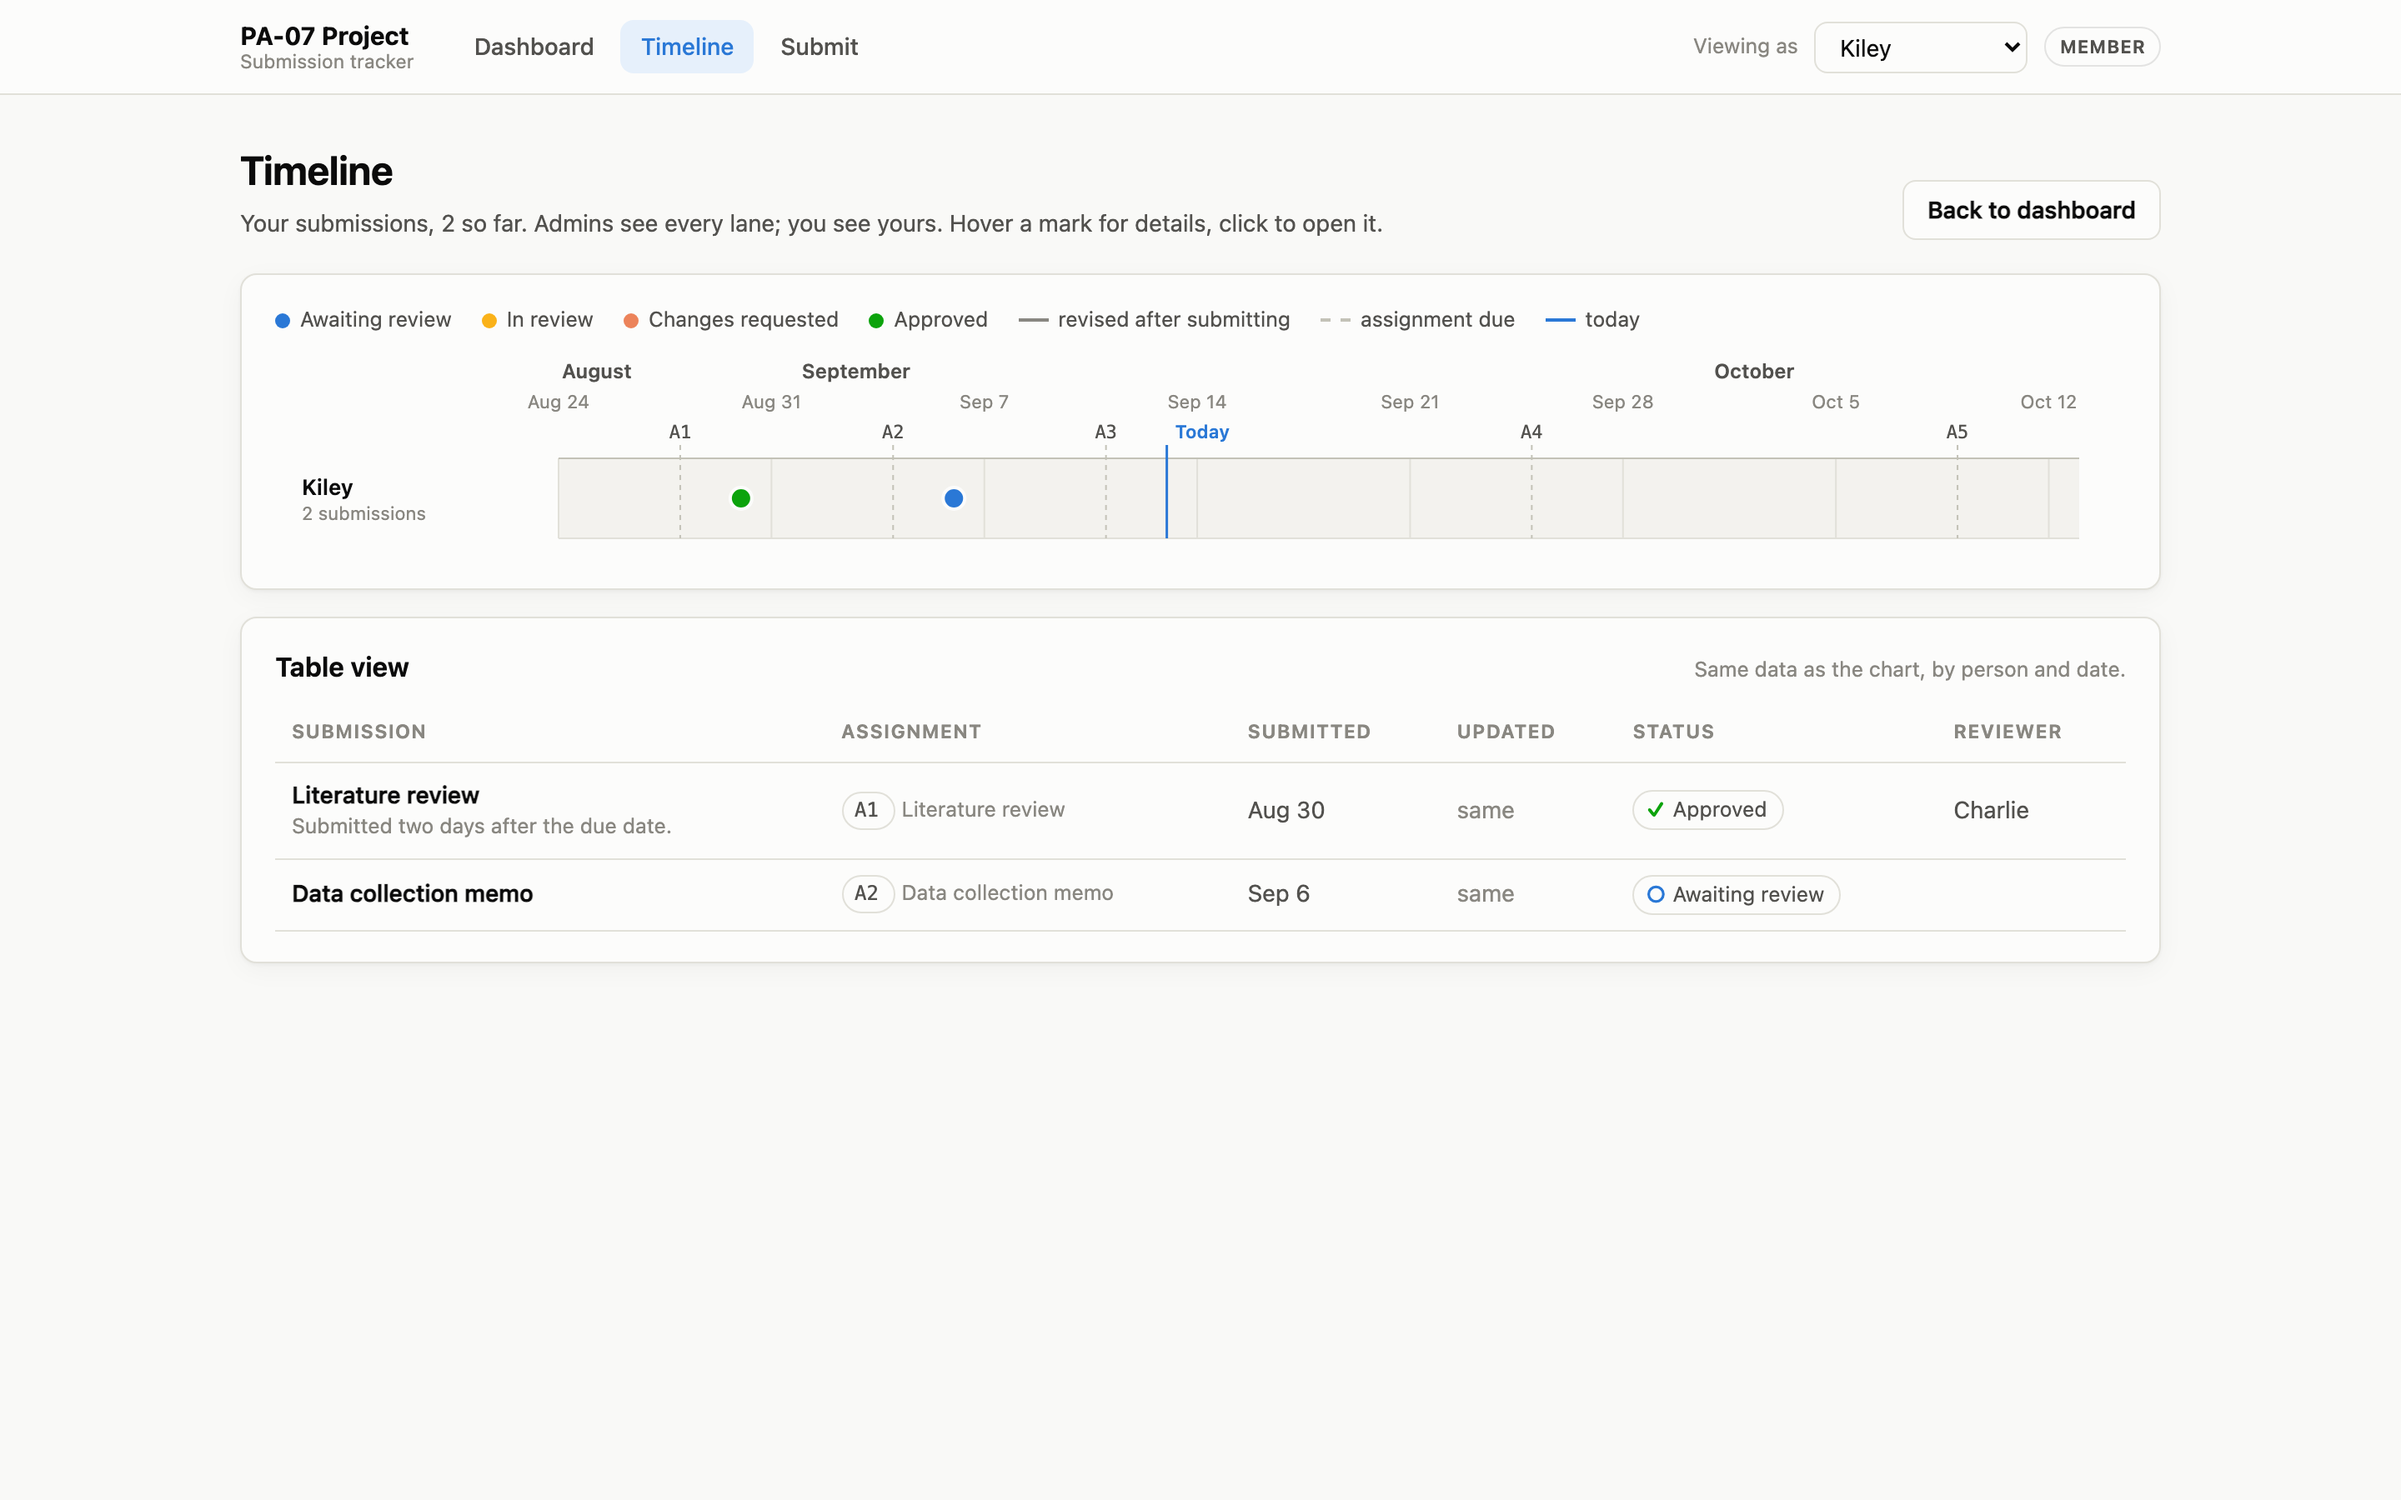
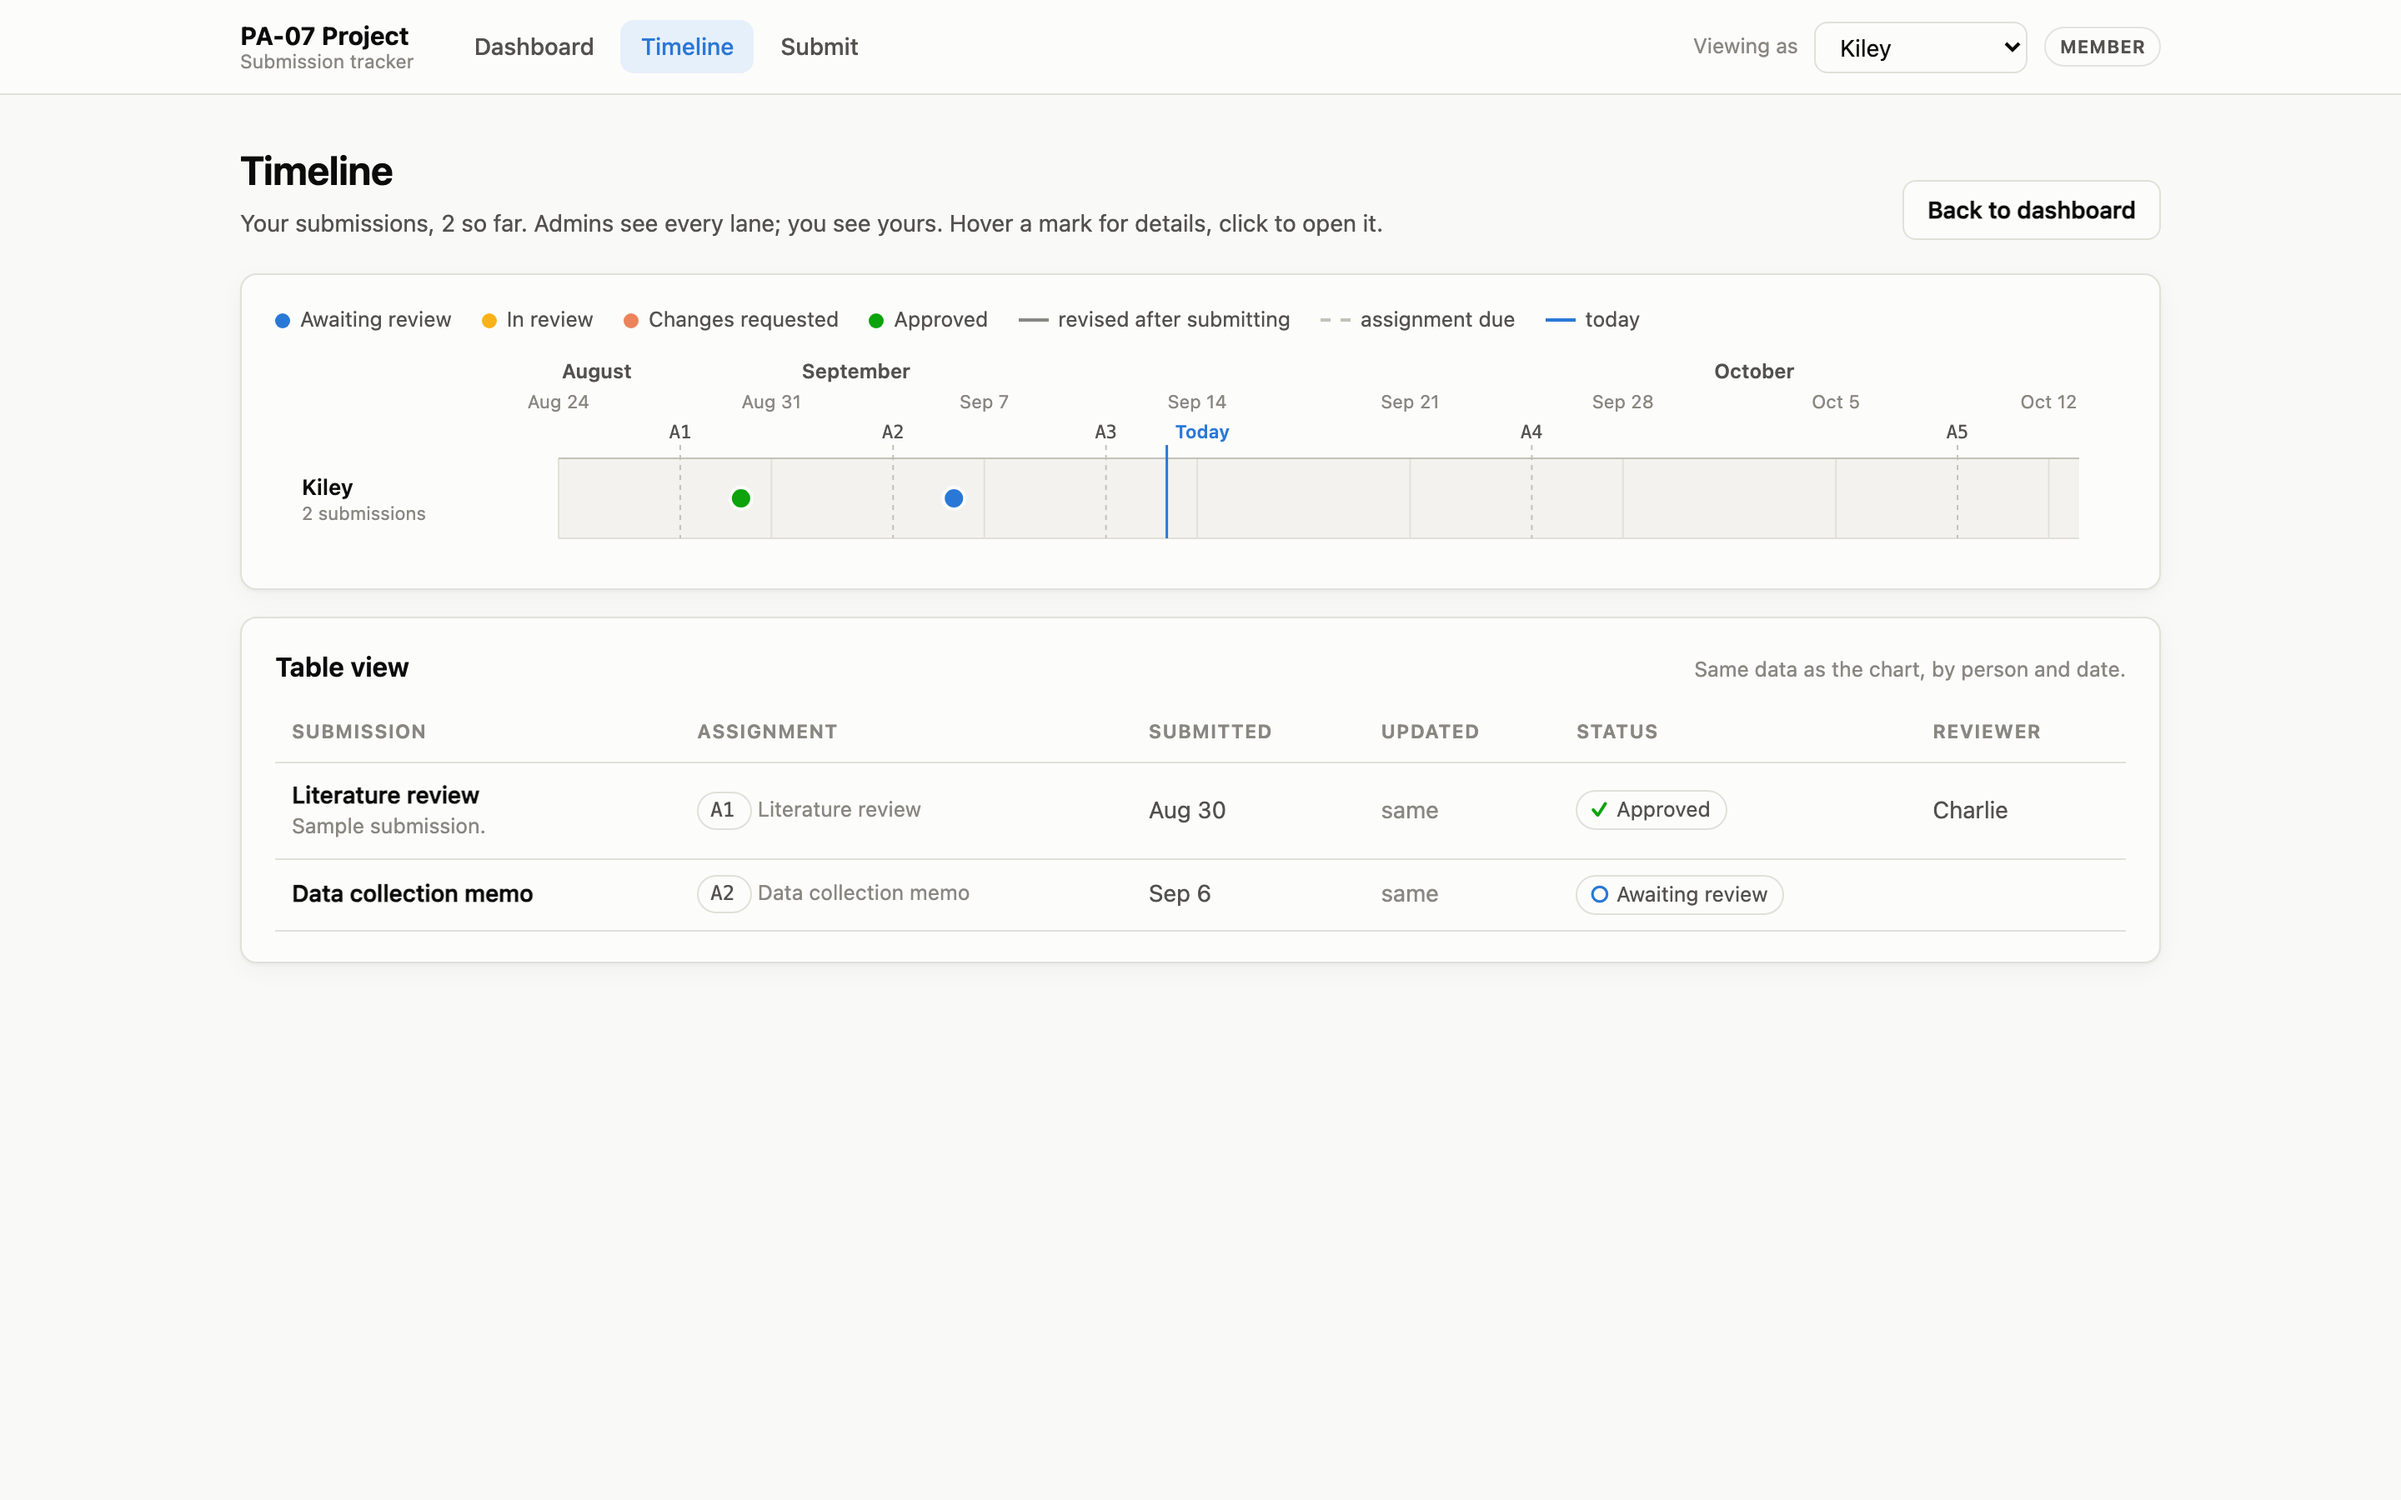
Neutral wording in the sample fixtures
The repo is going public, so the sample notes and review comments
should not read as real remarks about real people.

diff --git a/fixtures/reviews/bode/2026-09-01-lit-review.md b/fixtures/reviews/bode/2026-09-01-lit-review.md
@@ -5,5 +5,5 @@ reviewer: Prof. Crain
 
 ## 2026-09-03 Prof. Crain
 
-This is a list of sources rather than a review. Please add a paragraph per theme saying what the sources agree on and where they disagree.
+Sample review: please add a short paragraph per theme summarizing what the sources agree on and where they differ, then re-upload.
 

diff --git a/fixtures/reviews/kiley/2026-08-30-lit-review.md b/fixtures/reviews/kiley/2026-08-30-lit-review.md
@@ -5,5 +5,5 @@ reviewer: Charlie
 
 ## 2026-09-01 Charlie
 
-Approved. Please keep an eye on due dates for the next one; the memo builds on this so late work stacks up quickly.
+Sample review: approved. The memo builds on this, so it is worth starting early.
 

diff --git a/fixtures/submissions/kiley/2026-08-30-lit-review/submission.md b/fixtures/submissions/kiley/2026-08-30-lit-review/submission.md
@@ -2,5 +2,5 @@
 title: Literature review
 assignment: A1
 submitted: 2026-08-30
-notes: Submitted two days after the due date.
+notes: Sample submission.
 ---

diff --git a/fixtures/submissions/bode/2026-09-01-lit-review/submission.md b/fixtures/submissions/bode/2026-09-01-lit-review/submission.md
@@ -2,5 +2,5 @@
 title: Literature review
 assignment: A1
 submitted: 2026-09-01
-notes: Late; had exam conflicts.
+notes: Sample submission.
 ---
